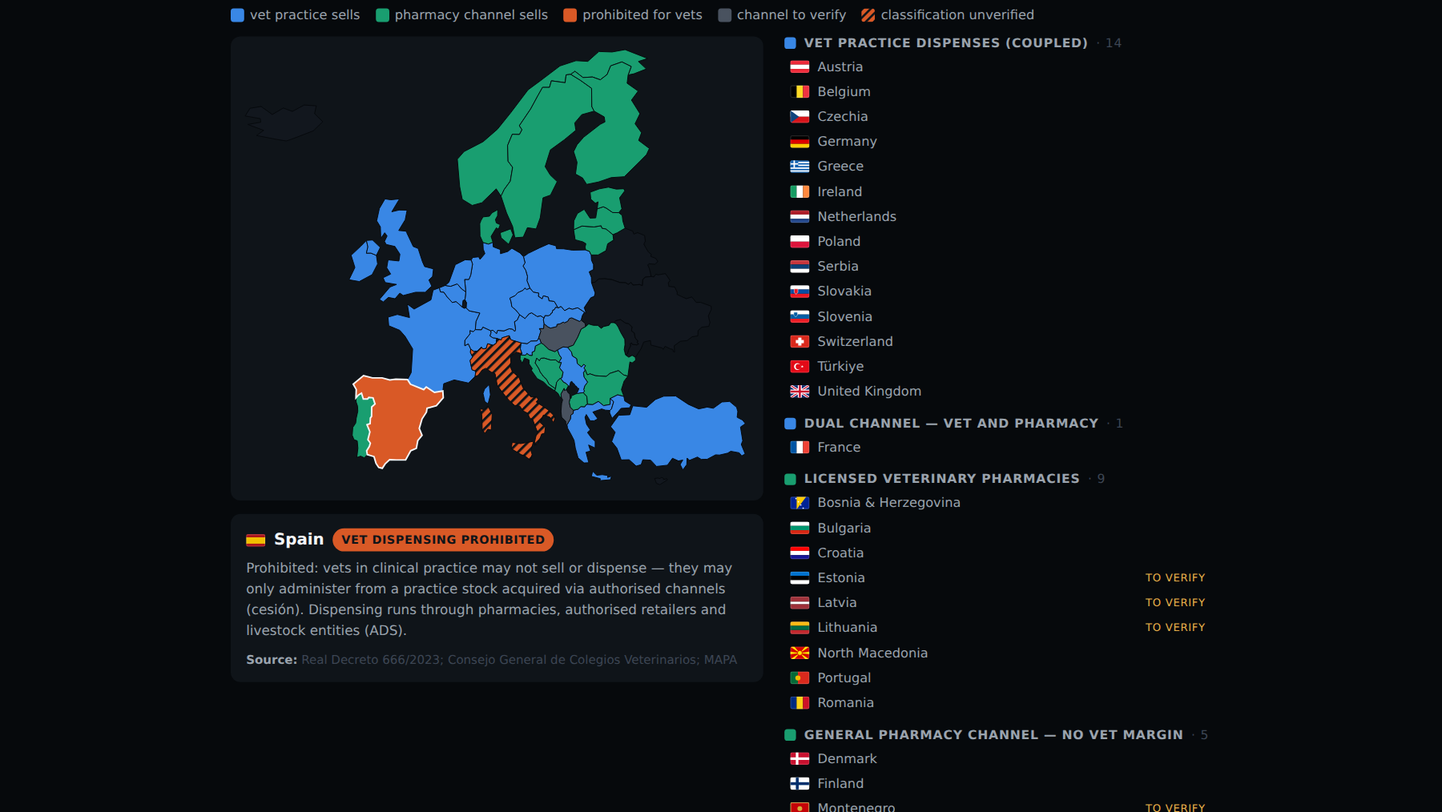
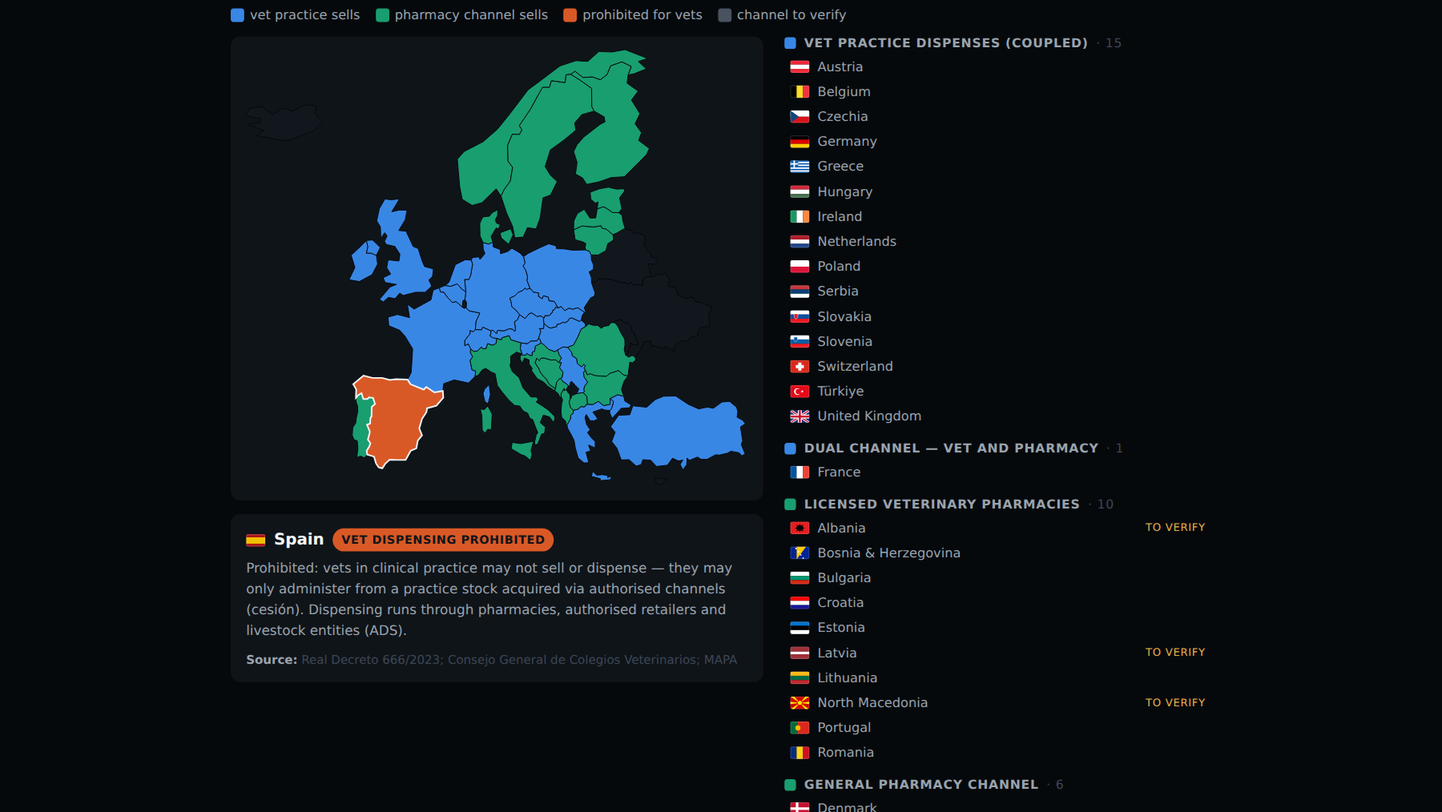
vet study: verification pass — IT/HU/AL resolved, RO/PT/EE/LT nuances pinned, CMA margin figures
Italy reclassified from 'likely prohibited' to pharmacy-led retail with a
limited vet hand-over (D.Lgs. 218/2023 art. 37) — hatch removed from the
map. Hungary pinned to coupled: the treating vet supplies from own stock
(128/2009 FVM rendelet; Nébih FAQ). Albania's channel sourced via the
AKVMB licence register of farmaci veterinare. Romania: vet pharmacies
are vet-run by law (Ordin 83/2014). Portugal: DL 148/2008 cedência to
animals under care confirmed. Estonia: vets may hand over
pharmacy/wholesale-sourced stock to keepers of examined animals.
Lithuania: retail via licence holders only. Latvia/MK/ME hand-over and
Kosovo channel remain flagged TO VERIFY. CMA section gains sourced
margin-adjacent figures (50-60% cheaper online, ~17% large-group
premium, FIVP 25-40%-of-turnover submission) with attribution labels;
appendix extraction blocked by egress, noted. Group heading 'no vet
margin' claim dropped as unsourced for IT/ME. Card asset re-shot.

Claude-Session: https://claude.ai/code/session_018RYS9ec6EAoQ8s6VcckwZk

diff --git a/vet-dispensing.html b/vet-dispensing.html
@@ -123,7 +123,7 @@ assessments.</p>
 <p class="src"><b>Sources:</b> one statute or regulator per country, named
 in each country's panel and in the table — among them RCVS/VMD and the CMA
 final report (UK), Code de la santé publique L5143-2 (FR), TÄHAV (DE),
-Real Decreto 666/2023 (ES), Animal Medication Act 387/2014 (FI),
+Real Decreto 666/2023 (ES), D.Lgs. 218/2023 (IT), Animal Medication Act 387/2014 (FI),
 Zakon o veterinarstvu (RS), Закон за ветеринарно-медицински препарати (MK)
 and Zakon o ljekovima 14/26 (ME). Compiled August 2026 in this repo's
 research note
@@ -146,12 +146,12 @@ const GROUPS = [
   { id:"coupled", cls:"vet", t:"Vet practice dispenses (coupled)" },
   { id:"dual", cls:"vet", t:"Dual channel — vet and pharmacy" },
   { id:"vetpharm", cls:"pharm", t:"Licensed veterinary pharmacies" },
-  { id:"pharm", cls:"pharm", t:"General pharmacy channel — no vet margin" },
+  { id:"pharm", cls:"pharm", t:"General pharmacy channel" },
   { id:"proh", cls:"proh", t:"Vet dispensing prohibited" },
   { id:"tbd", cls:"tbd", t:"Channel to verify" }
 ];
 const D = {
-UK:{g:"coupled",n:"United Kingdom",f:"Vets prescribe AND supply POM-V medicines; SQPs may supply the POM-VPS class. The CMA's 2026 remedies cap prescription fees (£21 first medicine, £12.50 each further) but impose no medicine price control.",s:"RCVS supporting guidance ch. 4; VMD; CMA final report, Mar 2026"},
+UK:{g:"coupled",n:"United Kingdom",f:"Vets prescribe AND supply POM-V medicines; SQPs may supply the POM-VPS class. The CMA's 2026 remedies cap prescription fees (£21 first medicine, £12.50 each further) but impose no medicine price control — it found medicines are often 50–60% cheaper online and requires practices to say so.",s:"RCVS supporting guidance ch. 4; VMD; CMA final report, Mar 2026"},
 DE:{g:"coupled",n:"Germany",f:"Dispensing right (Dispensierrecht) through the practice pharmacy — the tierärztliche Hausapotheke under TÄHAV rules; public pharmacies are a minor channel for vet medicines.",s:"Bundestierärztekammer, “Das tierärztliche Dispensierrecht”"},
 FR:{g:"dual",n:"France",f:"Vets may dispense, without holding an open pharmacy, to animals under their care (the “ayants droit”); pharmacies dispense in parallel — a genuine dual channel.",s:"Code de la santé publique art. L5143-2; Ordre national des vétérinaires"},
 TR:{g:"coupled",n:"Türkiye",f:"Veterinary clinics and polyclinics may hold and sell veterinary medicinal products under a retail-sale permit; sale outside authorised retail points is prohibited. Pharmacies are also authorised retail points.",s:"Veteriner Tıbbi Ürünler Hakkında Yönetmelik (mevzuat no. 15651); TVHB"},
@@ -171,20 +171,20 @@ SE:{g:"pharm",n:"Sweden",f:"Therapeutic veterinary medicines, including medicate
 NO:{g:"pharm",n:"Norway",f:"Same Nordic model: therapeutic veterinary medicines are dispensed through pharmacies.",s:"Grave et al. 2006, Prev. Vet. Med."},
 FI:{g:"pharm",n:"Finland",f:"Dispense at cost: vets may hand over medicines only for treatment needs and must charge exactly their own purchase price — profit on medicine sales is prohibited. Pharmacies are the normal retail channel.",s:"Animal Medication Act 387/2014; MMM 17/2014; Ruokavirasto"},
 ES:{g:"proh",n:"Spain",f:"Prohibited: vets in clinical practice may not sell or dispense — they may only administer from a practice stock acquired via authorised channels (cesión). Dispensing runs through pharmacies, authorised retailers and livestock entities (ADS).",s:"Real Decreto 666/2023; Consejo General de Colegios Veterinarios; MAPA"},
-IT:{g:"proh",n:"Italy",v:1,f:"LIKELY prohibited — cited alongside Spain as a country with pharmacy-based retail where vets do not dispense; the classification is not yet pinned to the Italian statute.",s:"secondary only (IM Veterinaria comparison) — TO VERIFY vs D.Lgs. 193/2006"},
-HU:{g:"tbd",n:"Hungary",v:1,f:"Governing regulation identified — 128/2009 (X. 6.) FVM rendelet with prescribing, dispensing and record rules under Nébih oversight, and a vet-pharmacy (állatgyógyszertár) retail channel — but the precise practice-sale rule still needs the article text.",s:"128/2009. (X. 6.) FVM rendelet (njt.hu) — TO PIN to specific §§"},
-RO:{g:"vetpharm",n:"Romania",f:"Retail runs exclusively through ANSVSA-authorised veterinary pharmacies and pharmaceutical points — vets prescribe, authorised units dispense; online sale only for non-prescription products via registered retailers.",s:"ANSVSA, prescriere/comercializare guidance"},
-PT:{g:"vetpharm",n:"Portugal",f:"Dispensing entities are pharmacies and DGAV-authorised retail sale points (postos de venda); the vet practice is not a named retail channel — vets administer.",s:"DGAV retail-sale FAQ; Decreto-Lei 148/2008"},
+IT:{g:"pharm",n:"Italy",f:"Retail is pharmacist-led: sale by a pharmacist in pharmacies and authorised outlets, under the responsibility of a person registered with the Order of Pharmacists. Art. 37 lets the vet hand over medicines from their own stock only to start or continue the prescribed therapy, with traceability duties.",s:"D.Lgs. 218/2023 art. 37 (implementing Reg. (EU) 2019/6, in force Jan 2024)"},
+HU:{g:"coupled",n:"Hungary",f:"The treating vet may supply the medicine personally from their own pre-purchased stock in the course of treatment; outside that, registered products may be dispensed only by or under the supervision of a vet or pharmacist, with vet pharmacies (állatgyógyszertár) as the retail channel.",s:"128/2009. (X. 6.) FVM rendelet; Nébih FAQ on veterinary products"},
+RO:{g:"vetpharm",n:"Romania",f:"Retail runs exclusively through ANSVSA-authorised veterinary pharmacies and pharmaceutical points — and the pharmacies are vet-run: the titular of a farmacie veterinară is a veterinary physician. Pharmaceutical points sell non-prescription products only; distributors may supply only authorised pharmacies, points and vet cabinets/clinics.",s:"ANSVSA; Ordin ANSVSA 83/2014; Norma sanitară veterinară 2006/2008"},
+PT:{g:"vetpharm",n:"Portugal",f:"Dispensing entities are pharmacies and DGAV-authorised retail sale points (postos de venda); vets may acquire medicines directly from wholesalers for administering to, or ceding to, animals under their care — but retail sale to the public stays with the authorised outlets.",s:"Decreto-Lei 148/2008 (consolidated); DGAV retail-sale pages"},
 HR:{g:"vetpharm",n:"Croatia",f:"Retail only via authorised veterinary pharmacies (veterinarske ljekarne) with per-location approval and a national register; distance sale only through registered ljekarne.",s:"Zakon o veterinarsko-medicinskim proizvodima; veterinarstvo.hr register"},
 BG:{g:"vetpharm",n:"Bulgaria",f:"Retail only via BFSA-licensed veterinary pharmacies — and by law both the pharmacy manager and the persons selling must be veterinarians.",s:"Закон за ветеринарномедицинската дейност; БАБХ (BFSA)"},
-EE:{g:"vetpharm",n:"Estonia",v:1,f:"The veterinaarapteek is a licensed pharmacy restricted to veterinary medicines; online sale only by licensed general or veterinary pharmacies. Vets' own hand-over right TO VERIFY.",s:"Medicinal Products Act; Ravimiamet"},
-LV:{g:"vetpharm",n:"Latvia",v:1,f:"Veterinary pharmaceutical activity requires a special permit from the Food and Veterinary Service (PVD) with a responsible official. Vets' own hand-over right TO VERIFY.",s:"PVD, veterinary pharmaceutical licensing (pvd.gov.lv)"},
-LT:{g:"vetpharm",n:"Lithuania",v:1,f:"Pharmaceutical activity in veterinary medicine runs on licences under the Law on Veterinary Activities, with State Food and Veterinary Service oversight. Vets' own hand-over right TO VERIFY.",s:"Law on Veterinary Activities; VMVT"},
-MK:{g:"vetpharm",n:"North Macedonia",f:"A dedicated law on veterinary-medical products, separate from human medicines; the Food and Veterinary Agency licenses wholesale and retail — ветеринарни аптеки approved after an Expert Commission facility inspection.",s:"Закон за ветеринарно-медицински препарати; fva.gov.mk"},
+EE:{g:"vetpharm",n:"Estonia",f:"The veterinaarapteek is a licensed pharmacy restricted to veterinary medicines; online sale only by licensed pharmacies. The vet may hand medicines to the keeper of an animal they have examined — but only stock sourced from a wholesaler or pharmacy, and never hormonal or prostaglandin products.",s:"Medicinal Products Act; Riigi Teataja veterinary-dispensing regulations; Ravimiamet"},
+LV:{g:"vetpharm",n:"Latvia",v:1,f:"Veterinary pharmaceutical activity requires a special permit from the Food and Veterinary Service (PVD); prescription medicines reach the owner only against a practicing vet's prescription. The domestic own-hand-over rule at statute level is TO VERIFY.",s:"PVD (pvd.gov.lv); MK noteikumi on VMP distribution; Veterinārmedicīnas likums"},
+LT:{g:"vetpharm",n:"Lithuania",f:"Veterinary pharmacy licence holders sell to animal owners — prescription products only against a vet's prescription or request; wholesalers may also sell against a prescription. The vet practice is not a named retail channel: vets prescribe, licence holders dispense.",s:"Veterinarinių vaistų įstatymas (implements Reg. (EU) 2019/6); VMVT"},
+MK:{g:"vetpharm",n:"North Macedonia",v:1,f:"A dedicated law on veterinary-medical products, separate from human medicines; the Food and Veterinary Agency licenses wholesale and retail — ветеринарни аптеки approved after an Expert Commission facility inspection. Vets' own hand-over right TO VERIFY.",s:"Закон за ветеринарно-медицински препарати; fva.gov.mk"},
 BA:{g:"vetpharm",n:"Bosnia & Herzegovina",f:"Retail via registered veterinarske apoteke under the veterinary law, with qualified-staff and prescription rules enforced by the federal inspectorate. Regulation is entity-split (FBiH / RS), so conditions can differ inside the country.",s:"Zakon o veterinarstvu FBiH; Federalna uprava za inspekcijske poslove"},
 ME:{g:"pharm",n:"Montenegro",v:1,f:"Veterinary medicines sit inside the single medicines act (Sl. list 14/26) under CInMED; a pharmacy supplying veterinary institutions under contract counts as retail trade. Nearly all products imported (260 import consents in 2025). Vets' own hand-over right TO VERIFY.",s:"Zakon o ljekovima 14/26; CInMED annual report 2025"},
-AL:{g:"tbd",n:"Albania",v:1,f:"Products trade only after approval by the State Commission for Veterinary Medicinal Products (Law 10465/2011); an EU-2019/6-aligned VMP law is due in 2026. The statute-level retail-channel rule is TO VERIFY.",s:"Ligj 10465/2011; RTSH on the 2026 draft law"},
-XK:{g:"tbd",n:"Kosovo",v:1,f:"Marketing authorisation and pharmacovigilance run under Administrative Instruction (MBPZHR) 12/2019, with AUV as the veterinary authority and AKPPM licensing medicine retailers generally. Which body licenses veterinary retail, and whether vets dispense, is TO VERIFY.",s:"UA 26/2006 + UA 12/2019 (gzk.rks-gov.net); AUV; AKPPM"}
+AL:{g:"vetpharm",n:"Albania",v:1,f:"The national veterinary authority AKVMB licenses and publishes the official registers of veterinary pharmacies (farmaci veterinare) and wholesale depots per regional veterinary service; products trade only after State Commission approval (Law 10465/2011). An EU-2019/6-aligned VMP law is due in 2026. Vets' own hand-over right TO VERIFY.",s:"AKVMB licence registers (akvmb.gov.al); Ligj 10465/2011"},
+XK:{g:"tbd",n:"Kosovo",v:1,f:"Marketing authorisation and pharmacovigilance run under Administrative Instruction (MBPZHR) 12/2019, with AUV as the veterinary authority and AKPPM licensing medicine retailers generally (the central licence register carries a retail-pharmacy licence). Which body licenses veterinary retail, and whether vets dispense, is TO VERIFY — public search exhausted; needs a direct register check.",s:"UA 26/2006 + UA 12/2019 (gzk.rks-gov.net); AUV; AKPPM; RQLL register"}
 };
 const GRPBY = id => GROUPS.find(g => g.id === id);
 const colOf = k => C[GRPBY(D[k].g).cls];
@@ -202,14 +202,7 @@ document.getElementById("legend").innerHTML = [
   ["proh", "prohibited for vets"], ["tbd", "channel to verify"]
 ].map(([c, t]) =>
   `<span class="k"><span class="sw" style="background:${C[c]}"></span>${t}</span>`
-).join("") +
-`<span class="k"><svg width="14" height="14" style="border-radius:3px">` +
-`<rect width="14" height="14" fill="url(#hatchL)"/></svg>classification unverified</span>` +
-`<svg width="0" height="0" style="position:absolute"><defs>` +
-`<pattern id="hatchL" width="6" height="6" patternUnits="userSpaceOnUse" patternTransform="rotate(45)">` +
-`<rect width="6" height="6" fill="${C.proh}"/>` +
-`<line x1="1" y1="0" x2="1" y2="6" stroke="#0f1419" stroke-width="2.4"/></pattern>` +
-`</defs></svg>`;
+).join("");
 
 // ---- map (same frame as ppp-europe.html)
 function buildMap() {
@@ -224,11 +217,7 @@ function buildMap() {
   const geom = f => f.geometry.type === "Polygon"
     ? (inWin(f.geometry.coordinates[0]) ? f.geometry.coordinates.map(ring).join("") : "")
     : f.geometry.coordinates.filter(p => inWin(p[0])).map(p => p.map(ring).join("")).join("");
-  const parts = [`<defs><pattern id="hatch" width="6" height="6"` +
-    ` patternUnits="userSpaceOnUse" patternTransform="rotate(45)">` +
-    `<rect width="6" height="6" fill="${C.proh}"/>` +
-    `<line x1="1" y1="0" x2="1" y2="6" stroke="#0f1419" stroke-width="2.4"/>` +
-    `</pattern></defs>`];
+  const parts = [];
   for (const f of GEOMAP.features) {
     let code = f.properties.iso2;
     if (code === "GR") code = "EL"; if (code === "GB") code = "UK";
@@ -244,9 +233,7 @@ function buildMap() {
     ` aria-label="Europe map colored by who may sell veterinary medicines;` +
     ` click a country for its rule">` + parts.join("") + `</svg>`);
   document.querySelectorAll("#map path[data-geo]").forEach(p => {
-    const k = p.dataset.geo, d = D[k];
-    p.style.fill = (k === "IT") ? "url(#hatch)" : colOf(k);
-    if (d.g === "tbd") p.style.fill = C.tbd;
+    p.style.fill = colOf(p.dataset.geo);
   });
   mapEl.addEventListener("click", e => {
     const p = e.target.closest("path[data-geo]");

diff --git a/notes/vet-markup-study.md b/notes/vet-markup-study.md
@@ -76,8 +76,9 @@ NOT (no prices, no margins). Shared mini-flags moved to `js/vet-flags.js`.
 interactive page (card image `assets/vet-dispensing.png`): Europe map
 colored by retail channel (vet practice sells / pharmacy channel sells /
 prohibited for vets / to verify — three hues validated all-pairs against
-the dark surface with the dataviz checker, plus neutral gray; Italy
-hatched because its classification is secondary-sourced only), a grouped
+the dark surface with the dataviz checker, plus neutral gray; the Italy
+hatch was removed 2026-08-21 when D.Lgs. 218/2023 settled its
+classification as pharmacy-led), a grouped
 country list with TO VERIFY badges, a per-country detail panel quoting
 the rule and its named source, and a full table view. States its own
 limits: a legal map, not a metric; no margin sizes; LU/IS/CY/MT not
@@ -103,46 +104,50 @@ compiled; Kosovo present in list and table but absent from the basemap.
 | Türkiye | YES — vet clinics/polyclinics may hold and sell vet medicinal products under a retail-sale permit; sale outside authorised retail points prohibited; even own-treatment stock requires the permit | pharmacies are also authorised retail points | Veteriner Tıbbi Ürünler Hakkında Yönetmelik (mevzuat.gov.tr no. 15651); TVHB/İVHO guidance on illegal online sales |
 | Poland | YES — retail of prescription vet medicines only through veterinary treatment facilities (zakład leczniczy dla zwierząt); vet supplies meds together with the service | pet shops etc. may sell OTC only (Prawo farmaceutyczne art. 71(1a)) | Główny Inspektorat Weterynarii, "Farmacja weterynaryjna" (wetgiw.gov.pl); Prawo farmaceutyczne; Vetpol guidance |
 | Spain | **NO — prohibited.** Vets in clinical practice may not sell or dispense; they may only administer from a practice stock acquired via authorised channels ("cesión") | dispensing via pharmacies, authorised retailers (comerciales detallistas) and livestock entities (ADS) | Real Decreto 666/2023 (BOE-A-2023-16727); Consejo General de Colegios Veterinarios summary; MAPA Q&A on distribution/prescription/dispensing (mapa.gob.es) |
-| Italy | LIKELY NO — cited alongside Spain as a country where vet dispensing is prohibited; pharmacy-based retail | pharmacy-led | secondary only (IM Veterinaria comparison) — **TO VERIFY against D.Lgs. 193/2006 / current Italian law before use** |
+| Italy | PHARMACY-LED WITH LIMITED VET HAND-OVER — **verified 2026-08-21, replaces the earlier "likely prohibited" secondary claim**: under D.Lgs. 218/2023 (implementing Reg. (EU) 2019/6, in force 18 Jan 2024) retail sale is carried out by a pharmacist in pharmacies and in authorised commercial establishments, under the responsibility of a person registered with the Order of Pharmacists; but art. 37 lets the vet hand over medicines from their own stock to the animal's owner/keeper to START or CONTINUE the prescribed therapy, with traceability duties | pharmacies + authorised outlets (pharmacist-responsible); pharmacists may split packs to the minimum treatment quantity | D.Lgs. 7.12.2023 n. 218 art. 37 (edizionieuropee.it consolidated text; Federfarma and Ordine dei Farmacisti summaries; FNOVI FAQ) |
 | Netherlands | YES — every registered vet holds a retail licence by law ("apotheekhoudende dierenarts"); may dispense only to clients whose animals are under their care; trading beyond own clients requires a separate licence. UDD class = vet-administered only | pharmacies dispense URA products on a vet's prescription | KNMvD kennisbank "Aan wie mag een dierenarts diergeneesmiddelen afleveren?"; CBG-MEB "Afleverstatus"; RVO diergeneesmiddelen page |
 | Belgium | YES — vets keep one registered medicines depot (dépôt/depot, numbered by the agency) and may supply ("fourniture/verschaffing") medicines to owners of animals under their care, quantity limited to the treatment | pharmacies dispense too | AFMPS/FAGG pages "Dépôt de médicaments pour les médecins vétérinaires" and "Fourniture de médicaments au responsable d'animaux" (afmps.be / fagg.be) |
 | Austria | YES — tierärztliche Hausapotheke under the Tierarzneimittelgesetz (TAMG); dispensing only to keepers of animals under the vet's treatment; opening notified to the district authority; chamber-supervised | public pharmacies a parallel channel | Österreichische Tierärztekammer, Berufsleitfaden "Tierärztliche Hausapotheke"; TAMG (ris.bka.gv.at); Apothekerkammer TAKG/TAMG merkblatt |
 | Czechia | YES — vets are authorised to dispense (výdej) veterinary medicinal products alongside pharmacists; sellers of reserved (OTC-class) products register with ÚSKVBL | pharmacies dispense too | Medicines Act 378/2007 Sb.; ÚSKVBL seller register (uskvbl.cz); VFU teaching materials on léčiva |
-| Hungary | PARTIAL — governing regulation identified: 128/2009. (X. 6.) FVM rendelet on veterinary products (prescribing, dispensing/kiadás and record rules for vets; Nébih oversight; 2023+ AMR amendments). The precise practice-sale rule needs the article text | vet pharmacies (állatgyógyszertár) retail channel | 128/2009 FVM rendelet (njt.hu / net.jogtar.hu); Nébih notice on changes — **TO PIN to specific §§ before use** |
-| Romania | CHANNEL-SPLIT — retail of vet medicinal products runs exclusively through ANSVSA-authorised veterinary pharmacies (farmacii veterinare) and pharmaceutical points; a vet practice as such is not a retail outlet — vets prescribe, authorised units dispense (whether/when vets own those units: nuance TO VERIFY) | the authorised vet-pharmacy network IS the channel; online sale only for non-prescription via registered retailers | ANSVSA "Precizări privind prescrierea, comercializarea, eliberarea si utilizarea produselor medicinale veterinare"; ANSVSA "Activitate farmaceutică veterinară" (ansvsa.ro) |
+| Hungary | YES — **pinned 2026-08-21**: the treating vet may supply the medicine personally from their own pre-purchased stock in the course of treatment (no separate prescription needed when dispensing from own stock); outside that, registered products may be dispensed only by or under the supervision of a vet or pharmacist; OTC without prescription limited to products with no antibiotics/psychotropics/euthanasia agents | vet pharmacies (állatgyógyszertár) and pharmacies the retail channel alongside practice supply | 128/2009. (X. 6.) FVM rendelet (net.jogtar.hu); Nébih GYIK "Állatgyógyászati termékek" (portal.nebih.gov.hu) |
+| Romania | CHANNEL-SPLIT, VET-RUN PHARMACIES — retail runs through ANSVSA-authorised veterinary pharmacies and pharmaceutical points; **ownership nuance resolved 2026-08-21**: in a farmacie veterinară the titular is a veterinary physician (vet-run, may employ other vets and staff); puncte farmaceutice sell non-prescription products only; distributors may supply only authorised pharmacies, points, and authorised vet cabinets/clinics (the latter for their practice) | the authorised vet-pharmacy network IS the channel; online sale only for non-prescription via registered retailers | ANSVSA "Activitate farmaceutică"; Ordin ANSVSA 83/2014 (cmvro.ro copy); Norma sanitară veterinară 2006/2008 (lege5.ro) |
 | Switzerland | YES — vets may run a "tierärztliche Privatapotheke" for their own clients; needs professional-practice AND retail-trade authorisation; cantons inspect | pharmacies and some specialist shops sell defined categories | TAMV (Tierarzneimittelverordnung); BLV "Verschreibung, Abgabe und Anwendung" (blv.admin.ch); canton Zürich licensing page |
 | Ireland | YES — vets supply POM to animals under their care; classes route supply to vet / pharmacist / licensed retailer (LR) / registered CAM outlets | pharmacies + DAFM-licensed retailers; internet sale only via DAFM-registered suppliers | HPRA "Classification of veterinary medicines in Ireland"; Veterinary Medicinal Products Act 2023; DAFM internet-supply list |
 | Finland | **YES BUT AT COST — zero profit.** Vets may hand over (luovuttaa) medicines only for treatment needs and must charge exactly their own purchase price; economic profit on medicine sales is prohibited | pharmacies the normal retail channel | Animal Medication Act 387/2014; MMM regulation 17/2014; Ruokavirasto Q&A "Lääkkeiden hankkiminen ja hinnoittelu" |
-| Portugal | CHANNEL-SPLIT — dispensing entities are pharmacies and DGAV-authorised retail sale points (postos de venda); the vet practice is not a named retail channel (vets administer; ceding detail TO VERIFY in DL 148/2008) | pharmacies + authorised retail points; simplified regime for non-POM outlets | DGAV retail-sale FAQ (2023) and Manual de Dispensa; Decreto-Lei 148/2008 as amended |
+| Portugal | CHANNEL-SPLIT WITH CEDÊNCIA — dispensing entities are pharmacies and DGAV-authorised retail sale points (postos de venda); **ceding detail resolved 2026-08-21**: DL 148/2008 lets vets acquire medicines directly from manufacturers/importers/wholesalers when intended for administering to, or ceding to, animals under their care (art. 69-A also covers transport for daily clinical practice) — retail sale to the public stays with the authorised outlets | pharmacies + authorised retail points; simplified regime for non-POM outlets | Decreto-Lei 148/2008 (consolidated, diariodarepublica.pt); DGAV retail-sale pages incl. "Alteração das normas de venda a retalho" |
 | Greece | YES (hybrid) — private vet clinics/production-animal vet offices may supply products to owners after issuing the prescription; dedicated vet-medicine retail shops require a licence AND a responsible scientist holding a veterinary degree | pharmacies may sell vet POM on prescription after notifying the regional veterinary service | minagric.gr vet-pharmaceuticals pages; national licence registry (mitos.gov.gr / EUGO, "Άδεια λιανικής πώλησης κτηνιατρικών φαρμακευτικών προϊόντων"); Kilkis pharmacists' association FAQ |
 | Croatia | CHANNEL-SPLIT — retail only via authorised veterinary pharmacies (veterinarske ljekarne), per-location approval, national register kept by the veterinary directorate; distance sale only through registered ljekarne | the registered vet-pharmacy network IS the channel | Zakon o veterinarsko-medicinskim proizvodima (zakon.hr); Uprava za veterinarstvo "Veterinarske ljekarne" register (veterinarstvo.hr) |
 | Slovakia | YES (dual) — pharmacies dispense vet medicines under their pharmacy-care permit; separately, retail sale of vet medicines (incl. distance sale) runs on a permit from the regional veterinary and food administration — the route vets use | pharmacies dispense too | zákon č. 362/2011 Z. z. o liekoch; ŠVPS "Farmácia" pages (svps.sk); mediPRÁVNIK analysis "výdaj lekárňou vs. maloobchodný predaj veterinárnymi lekármi" |
 | Bulgaria | VET-STAFFED PHARMACIES — retail only via BFSA-licensed veterinary pharmacies; **the pharmacy manager and the persons selling must be veterinarians by law** | the licensed vet-pharmacy network IS the channel; BFSA controls wholesale + retail | Закон за ветеринарномедицинската дейност via BFSA (БАБХ) pages; bfsa.egov.bg licensing specimens; 1Legal.net summary of licensing requirements |
 | Slovenia | YES (hybrid) — retail via pharmacies, licensed specialised outlets (specializirane prodajalne; responsible person must hold a vet or pharmacy degree), AND veterinary organisations performing veterinary activities | pharmacies + specialised outlets | ZZdr-2 art. 126; Pravilnik o specializiranih prodajalnah (Uradni list 2003); JAZMP retail-marketing pages |
-| Estonia | LICENSED VET PHARMACY — the "veterinaarapteek" is a licensed pharmacy allowed to dispense only veterinary medicinal products; online sale only by licensed general/vet pharmacies. Vets' own hand-over right TO VERIFY in the Medicinal Products Act | general + veterinary pharmacies | Medicinal Products Act (Riigi Teataja consolidated EN); Ravimiamet pharmacy pages |
-| Latvia | LICENSED VET PHARMACY — veterinary pharmaceutical activity needs a special permit/licence from the Food and Veterinary Service (PVD); responsible official per the Pharmaceutical Law. Vets' own hand-over right TO VERIFY | licensed veterinary pharmacies | PVD "Special permit or licence for veterinary pharmaceutical activity" and "Veterināro zāļu mazumtirdzniecība" (pvd.gov.lv) |
-| Lithuania | LICENSED VET PHARMACY — pharmaceutical activity in veterinary medicine runs on permits/licences under the Law on Veterinary Activities; State Food and Veterinary Service oversight. Vets' own hand-over right TO VERIFY | licensed veterinarijos vaistinės | Law on Veterinary Activities (official translation, WTO/e-seimas); VMVT oversight |
+| Estonia | LICENSED VET PHARMACY + VET HAND-OVER — the "veterinaarapteek" is a licensed pharmacy restricted to veterinary medicinal products; online sale only by licensed pharmacies. **Hand-over right resolved 2026-08-21**: the vet may issue (väljastada) medicines to the keeper of an animal they have examined, but only stock sourced from a wholesaler or pharmacy; OTC antiparasitics allowed without prior exam; hormonal (estrogen/androgen/gestagen) and prostaglandin products may not be handed to keepers | general + veterinary pharmacies | Medicinal Products Act; Riigi Teataja regulations on prescribing/dispensing in veterinary services (RT 128/06/2022 034) and on conditions of medicine use (RT 125/11/2021 003); Ravimiamet |
+| Latvia | LICENSED VET PHARMACY — veterinary pharmaceutical activity needs a special permit/licence from the Food and Veterinary Service (PVD); prescription vet medicines reach the owner only against a practicing vet's prescription, with counselling by the issuer; a vet providing cross-border services may hand over only the minimum quantity to complete the treatment course. Domestic own-hand-over rule at statute level still TO VERIFY | licensed veterinary pharmacies | PVD "Veterināro zāļu aprites uzraudzība" (pvd.gov.lv); MK noteikumi on VMP labelling/distribution/control; Veterinārmedicīnas likums (likumi.lv) |
+| Lithuania | LICENSED VET PHARMACY — **resolved 2026-08-21**: veterinary pharmacy licence holders sell to animal owners (prescription products only against a vet's prescription/request); wholesalers may also sell to owners against a prescription; the vet practice is not a named retail channel — vets prescribe, licence holders dispense | licensed veterinarijos vaistinės (and wholesalers against prescription) | Veterinarinių vaistų įstatymas implementing Reg. (EU) 2019/6 (e-seimas.lrs.lt); VMVT oversight |
 | Serbia | YES via registered pharmacy — veterinarska apoteka is the registered retail entity; veterinary stations/clinics may retail vet medicines (excluding state-programme injectables, sera, vaccines and diagnostics) IF they register a veterinary pharmacy, with a licensed vet employed | registered veterinarske apoteke (often clinic-attached) | Zakon o veterinarstvu (paragraf.rs consolidated text) |
 | Bosnia & Herzegovina | RETAIL VIA VETERINARSKE APOTEKE — registered under the veterinary law and inspected by the Federal inspection administration; qualified professional staff (stručni kadar) and prescription rules apply (inspectors have sanctioned dispensing without prescription / without qualified staff). Regulation is entity-split (FBiH / RS), so conditions can differ between the two entities | registered veterinarske apoteke | Zakon o veterinarstvu u BiH / FBiH (paragraf.ba; msb.gov.ba PDF); Federalna uprava za inspekcijske poslove enforcement notices |
 | North Macedonia | LICENSED VET PHARMACY — a dedicated Закон за ветеринарно-медицински препарати governs VMPs separately from human medicines; the Food and Veterinary Agency (FVA/АХВ) licenses both wholesale (veterinary wholesalers) and retail (ветеринарни аптеки), each outlet approved after an Expert Commission facility inspection. Vets' own hand-over right TO VERIFY in the law text | FVA-licensed ветеринарни аптеки ARE the retail channel | Закон за ветеринарно-медицински препарати (fva.gov.mk); FVA "Одобрување на правни лица кои вршат промет со ВМП" |
 | Montenegro | PHARMACY-ROUTE — veterinary medicines are regulated inside the single Zakon o ljekovima (Sl. list CG 14/26, human + vet in one act), administered by CInMED; the law counts a pharmacy supplying veterinary institutions under contract, for their patients, as retail trade. Nearly all VMPs imported — CInMED issued import consent for 260 vet medicines in 2025 and publishes the per-batch list. Vets' own hand-over right TO VERIFY | pharmacies + supply-to-veterinary-institutions route | Zakon o ljekovima 14/26 (cinmed.me PDF); CInMED annual report 2025 |
-| Albania | STATE-COMMISSION GATE, CHANNEL TO VERIFY — VMPs may be traded only after approval by the State Commission for Veterinary Medicinal Products under Law 10465/2011 on the veterinary service; a new VMP law aligned to EU Reg. 2019/6 is scheduled for adoption in 2026 (unlimited-validity trade authorisations; online sale legalised only for non-prescription products for non-food animals). Retail-licence mechanics (farmaci veterinare) exist as an e-Albania service but the statute-level channel rule is TO VERIFY | farmaci veterinare (licence service on e-Albania) — detail TO VERIFY | Ligj 10465/2011 (bujqesia.gov.al PDF / FAOLEX); RTSH report on the 2026 draft VMP law |
-| Kosovo | REGULATED, CHANNEL TO VERIFY — VMP marketing authorisation and pharmacovigilance run under Udhëzim Administrativ (MBPZHR) Nr. 12/2019 (successor to UA MA-Nr. 26/2006), with the Food and Veterinary Agency (AUV) as the veterinary authority; AKPPM licenses producers, wholesalers and retailers of medicinal products under Law 04/L-190. Which body licenses *veterinary* retail outlets and whether vets dispense is TO VERIFY | not yet documented | UA 26/2006 + UA (MBPZHR) 12/2019 (gzk.rks-gov.net); AUV legislation pages (auvk.rks-gov.net); AKPPM licensing department |
+| Albania | LICENSED VET PHARMACY — **channel resolved 2026-08-21**: the national veterinary authority AKVMB publishes the official registers of licensed veterinary pharmacies (farmaci veterinare, with licence numbers) and pharmaceutical depots (wholesale) per regional veterinary service; products themselves trade only after State Commission approval under Law 10465/2011; an EU-2019/6-aligned VMP law is due in 2026. Vets' own hand-over right TO VERIFY | licensed farmaci veterinare (AKVMB register); depot wholesale tier | AKVMB "Farmaci dhe Depo Veterinare — listë me nr. licensimi" (akvmb.gov.al); Ligj 10465/2011; VKM 538/2009 licence categories; RTSH on the 2026 draft law |
+| Kosovo | REGULATED, CHANNEL TO VERIFY — VMP marketing authorisation and pharmacovigilance run under Udhëzim Administrativ (MBPZHR) Nr. 12/2019 (successor to UA MA-Nr. 26/2006), with the Food and Veterinary Agency (AUV) as the veterinary authority; AKPPM licenses producers, wholesalers and retailers of medicinal products under Law 04/L-190 (RQLL central register carries the retail-pharmacy licence "Qarkullues Farmaceutik me Pakicë (Barnatore)"). Searched again 2026-08-21: no vet-specific retail licence located in public search; the RQLL register itself is unreachable from this environment — needs a direct register check. Which body licenses *veterinary* retail and whether vets dispense remains TO VERIFY | not yet documented | UA 26/2006 + UA (MBPZHR) 12/2019 (gzk.rks-gov.net); AUV legislation pages (auvk.rks-gov.net); AKPPM; RQLL (lejelicenca.rks-gov.net) |
 Thirty-four rows — the map now covers every country on the study's list
 except four small markets never compiled (LU, IS, CY, MT — TO COMPILE
 only if a use appears).
-Six distinct models: coupled (DE, UK, PL, TR, NL, BE, AT, CZ, CH, IE, SK,
-EL, SI, RS) through dual-channel (FR), decoupled (DK, SE, NO),
-**dispense-at-cost (FI — vets may hand over medicines but only at their
-own purchase price, profit prohibited)**, prohibited (ES, likely IT), and
-the licensed-vet-pharmacy channel (RO, HR, PT, BG, EE, LV, LT, MK, BA —
-with Bulgaria requiring pharmacy staff to BE veterinarians). ME routes
-through general pharmacies under a single medicines act; AL and XK are
-regulated but their retail-channel rule is TO VERIFY, not assumed. The
-retail-margin actor differs country by country, and in FI/DK/SE/NO/ES a
-vet medicine margin is legally zero or non-existent. Open verifications:
-HU article text; IT; RO/PT ownership-and-ceding nuances; Baltic + MK/ME
-vets' own hand-over rights at statute level; AL/XK retail channel.
+Six distinct models after the 2026-08-21 verification pass: coupled (DE,
+UK, PL, TR, NL, BE, AT, CZ, CH, IE, SK, EL, SI, RS, **HU — now pinned:
+the treating vet supplies from own stock**) through dual-channel (FR),
+decoupled (DK, SE, NO), **dispense-at-cost (FI — vets may hand over
+medicines but only at their own purchase price, profit prohibited)**,
+prohibited (**ES only — Italy reclassified**: D.Lgs. 218/2023 makes
+retail pharmacist-led but art. 37 gives vets a start-or-continue-therapy
+hand-over from own stock), and the licensed-vet-pharmacy channel (RO —
+vet-run by law, HR, PT, BG — vet-staffed by law, EE, LV, LT, MK, BA,
+**AL — now sourced via the AKVMB licence register**). ME routes through
+general pharmacies under a single medicines act. The retail-margin actor
+differs country by country, and in FI/DK/SE/NO/ES a vet medicine margin
+is legally zero or non-existent. Remaining open points: XK retail
+channel (public search exhausted — needs a direct RQLL/AUV register
+check); LV domestic hand-over at statute level; MK/ME vets' own
+hand-over rights.
 
 ## Case study: UK — CMA market investigation (final report 24 Mar 2026)
 
@@ -162,9 +167,32 @@ any figure enters a chart:
   general price controls ill-suited to a multi-product clinical sector.
 - Context finding: average vet service prices **+63% from Jan 2016 to
   Dec 2023** vs **+32%** general services inflation.
-- TO EXTRACT next: the practice-level medicine margin percentages from
-  the final report appendices (not carried in the press summaries) —
-  requires the full report PDF from the gov.uk case page.
+
+Margin-adjacent figures gathered 2026-08-21 (each labelled by who says
+it — CMA finding vs sector submission):
+
+- **Medicines often 50–60% cheaper online** than at the practice; the
+  CMA puts potential owner savings at **£200–300 per year** (final
+  report summaries; the transparency remedies — "tell owners medicines
+  may be cheaper online", written-prescription right, publishing prices
+  of the most-sold flea/tick/worm products with a link to the VMD online
+  retailer register — flow from this finding).
+- CMA blog/summaries: pet owners "may be paying **double** the online
+  price" for medication.
+- CMA econometrics (insurance-claims data): large vet groups price
+  **~17% above independents** on average, with prices rising faster at
+  acquired practices.
+- **Sector submission, not a CMA finding:** FIVP (independent-practice
+  federation) told the remedies consultation that medicine margins
+  represent **25–40% of turnover** for independent practices and
+  cross-subsidise consultation fees — practices expect to raise service
+  prices if dispensing volume falls. Use only with that attribution.
+- STILL TO EXTRACT: the practice-level medicine margin percentages in
+  the final-report appendices. Blocked from this environment — the
+  report PDFs sit on assets.publishing.service.gov.uk, which the egress
+  proxy does not allow; needs a manual download from the gov.uk case
+  page ("Veterinary services for household pets") or a fetch from a
+  network that reaches gov.uk.
 
 ## Integrity checklist for this study
 
